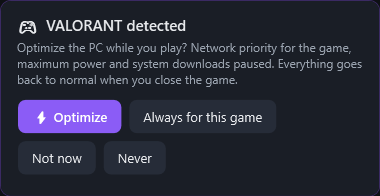
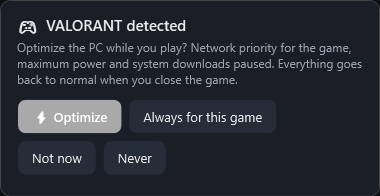
README e site sem roxo: capturas novas a preto e branco e emblemas cinzentos

Changed region(s): [[0.0289, 0.4898, 0.3184, 0.7041], [0.0289, 0.0, 0.9842, 0.0306], [0.9842, 0.0306, 1.0, 0.949]]

diff --git a/docs/index.html b/docs/index.html
@@ -11,13 +11,13 @@
 <link href="https://fonts.googleapis.com/css2?family=Onest:wght@400;500;700;800&display=swap" rel="stylesheet">
 <style>
   :root {
-    --ink: #0f1115;        /* fundo, igual à app */
-    --panel: #161920;
-    --raised: #1b1f27;
-    --line: #262b36;
+    --ink: #0b0b0c;        /* fundo, igual à app */
+    --panel: #141416;
+    --raised: #18181b;
+    --line: #2a2a2f;
     --text: #e6e9ef;
-    --muted: #9aa3b2;
-    --signal: #8b5cf6;     /* o roxo da app (logótipo) */
+    --muted: #9a9a9f;
+    --signal: #f2f2f2;     /* o roxo da app (logótipo) */
     --ok: #3fb950;
     --warn: #e3b341;
     --crit: #f85149;
@@ -48,14 +48,14 @@
   /* ---------- hero ---------- */
   .hero { display: grid; grid-template-columns: 1.05fr 1fr; gap: 56px; align-items: center; padding: 56px 0 88px; }
   h1 { font-size: clamp(38px, 5.4vw, 64px); line-height: 1.04; letter-spacing: -0.03em; font-weight: 800; margin: 0 0 22px; max-width: 14ch; }
-  .lede { font-size: 20px; color: #c3c9d4; max-width: 46ch; margin: 0 0 32px; }
+  .lede { font-size: 20px; color: #c9c9ce; max-width: 46ch; margin: 0 0 32px; }
   .get { display: flex; flex-wrap: wrap; align-items: center; gap: 14px 22px; }
   .btn {
     display: inline-flex; align-items: center; gap: 10px; text-decoration: none;
     background: var(--signal); color: #fff; font-weight: 700; font-size: 17px;
     padding: 15px 26px; border-radius: 12px; box-shadow: 0 2px 0 rgba(0,0,0,.35);
   }
-  .btn:hover { background: #a07bff; }
+  .btn:hover { background: #d4d4d8; }
   .btn svg { width: 20px; height: 20px; }
   .fine { color: var(--muted); font-size: 14px; line-height: 1.5; }
 
@@ -83,18 +83,18 @@
   /* ---------- o que faz ---------- */
   section { padding: 72px 0; border-top: 1px solid var(--line); }
   h2 { font-size: clamp(28px, 3.4vw, 40px); line-height: 1.1; letter-spacing: -0.02em; font-weight: 800; margin: 0 0 14px; max-width: 22ch; }
-  .intro { color: #c3c9d4; max-width: var(--measure); margin: 0 0 44px; }
+  .intro { color: #c9c9ce; max-width: var(--measure); margin: 0 0 44px; }
   .feature { display: grid; grid-template-columns: 0.9fr 1.4fr; gap: 48px; align-items: center; margin: 0 0 76px; }
   .feature:nth-of-type(even) { grid-template-columns: 1.4fr 0.9fr; }
   .feature:nth-of-type(even) .shot { order: -1; }
   .feature h3 { font-size: 24px; letter-spacing: -0.01em; margin: 0 0 10px; }
-  .feature p { color: #c3c9d4; margin: 0 0 12px; max-width: 46ch; }
-  .feature ul { margin: 0; padding-left: 20px; color: #c3c9d4; max-width: 46ch; }
+  .feature p { color: #c9c9ce; margin: 0 0 12px; max-width: 46ch; }
+  .feature ul { margin: 0; padding-left: 20px; color: #c9c9ce; max-width: 46ch; }
   .feature li { margin: 4px 0; }
   .shot { border-radius: 14px; overflow: hidden; border: 1px solid var(--line); box-shadow: 0 24px 48px -28px rgba(0,0,0,.7); background: var(--panel); }
   .float { position: relative; }
   .float .mini { position: absolute; border-radius: 10px; box-shadow: 0 20px 40px -14px rgba(0,0,0,.9); }
-  .float .prompt { width: 44%; right: -14px; bottom: -26px; border: 1px solid #3b2a63; }
+  .float .prompt { width: 44%; right: -14px; bottom: -26px; border: 1px solid #2e2e33; }
   .float .ov { width: 32%; left: 18px; top: 18px; border-radius: 8px; }
 
   .others { display: grid; grid-template-columns: repeat(3, 1fr); gap: 1px; background: var(--line); border: 1px solid var(--line); border-radius: 16px; overflow: hidden; }
@@ -109,7 +109,7 @@
   ol.steps li::before { content: counter(s); width: 40px; height: 40px; border-radius: 50%; border: 2px solid var(--signal); color: var(--signal); font-weight: 700; display: grid; place-items: center; }
   ol.steps b { display: block; }
   ol.steps span { color: var(--muted); font-size: 15px; }
-  .why { background: var(--panel); border: 1px solid var(--line); border-radius: 16px; padding: 24px; color: #c3c9d4; }
+  .why { background: var(--panel); border: 1px solid var(--line); border-radius: 16px; padding: 24px; color: #c9c9ce; }
   .why p { margin: 0 0 12px; }
   .why p:last-child { margin: 0; }
 

diff --git a/README.md b/README.md
@@ -6,11 +6,11 @@
 
 **Finds out why your PC is slow, crashes or lags, and fixes it.**
 
-[![Latest release](https://img.shields.io/github/v/release/DinisIvanetsD/rigwise?label=version&color=8b5cf6)](https://github.com/DinisIvanetsD/rigwise/releases/latest)
-[![Downloads](https://img.shields.io/github/downloads/DinisIvanetsD/rigwise/total?color=8b5cf6)](https://github.com/DinisIvanetsD/rigwise/releases)
-![Windows 10/11](https://img.shields.io/badge/Windows-10%20%7C%2011-8b5cf6)
+[![Latest release](https://img.shields.io/github/v/release/DinisIvanetsD/rigwise?label=version&color=555555)](https://github.com/DinisIvanetsD/rigwise/releases/latest)
+[![Downloads](https://img.shields.io/github/downloads/DinisIvanetsD/rigwise/total?color=555555)](https://github.com/DinisIvanetsD/rigwise/releases)
+![Windows 10/11](https://img.shields.io/badge/Windows-10%20%7C%2011-555555)
 ![Free](https://img.shields.io/badge/price-free-3fb950)
-[![License: MIT](https://img.shields.io/badge/license-MIT-8b5cf6)](LICENSE)
+[![License: MIT](https://img.shields.io/badge/license-MIT-555555)](LICENSE)
 
 ### [⬇ Download](https://github.com/DinisIvanetsD/rigwise/releases/latest/download/PCOptimizer-win-x64.zip) · [Website](https://rigwise-vercel.vercel.app)
 
